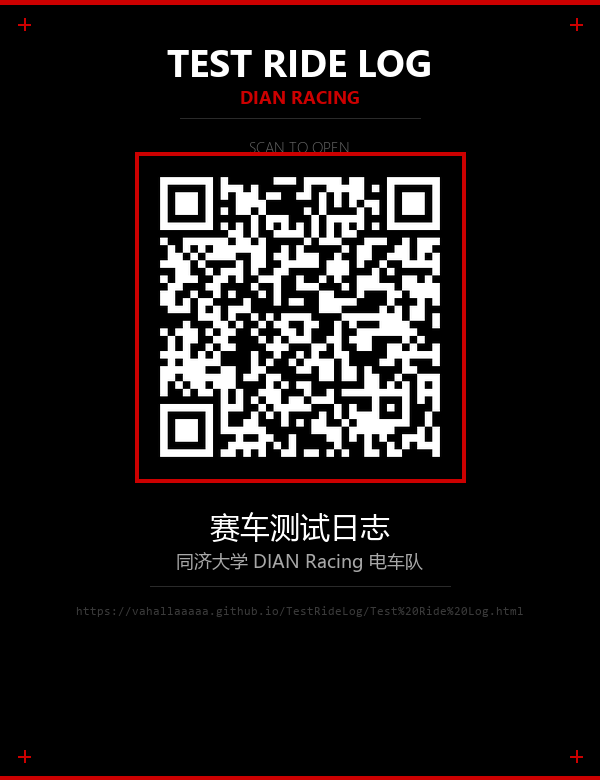
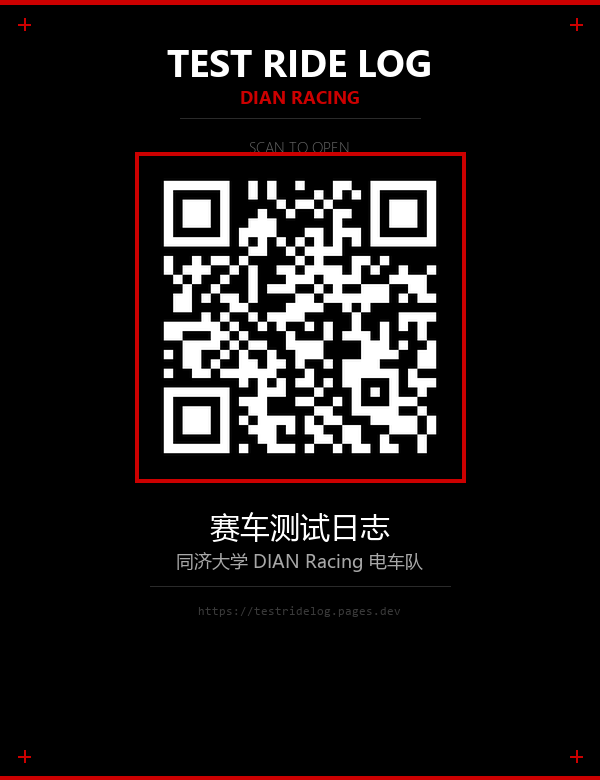
Update QR code to Cloudflare Pages

diff --git a/generate-qr.py b/generate-qr.py
@@ -1,5 +1,5 @@
 """
-DIAN Racing Test Ride Log — 生成永久 QR 码（GitHub Pages）
+DIAN Racing Test Ride Log — 生成永久 QR 码（Cloudflare Pages）
 """
 from PIL import Image, ImageDraw, ImageFont
 import qrcode
@@ -8,8 +8,8 @@ import os
 DIR = os.path.dirname(os.path.abspath(__file__))
 QR_PATH = os.path.join(DIR, 'qr-code.png')
 
-# 永久 URL — GitHub Pages，改了文件 push 就会自动更新
-URL = 'https://vahallaaaaa.github.io/TestRideLog/Test%20Ride%20Log.html'
+# 永久 URL — Cloudflare Pages，国内可直连
+URL = 'https://testridelog.pages.dev'
 
 print(f'Generating QR for: {URL}')
 
